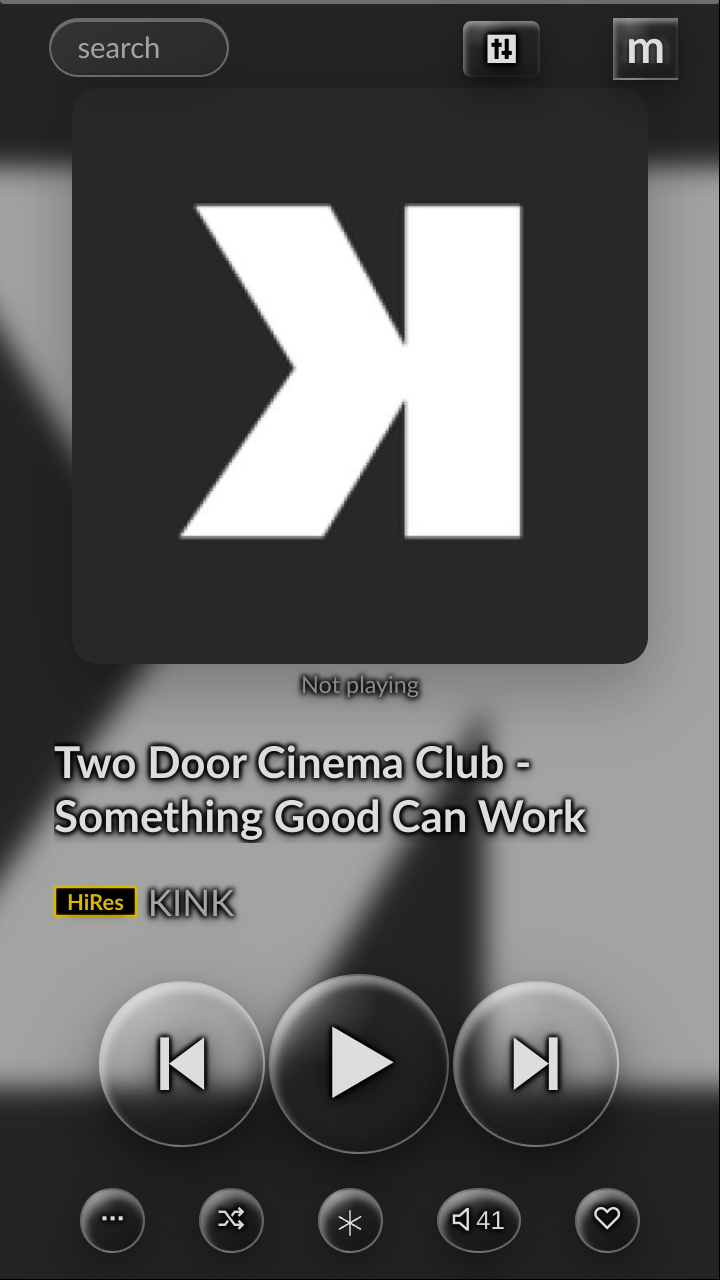
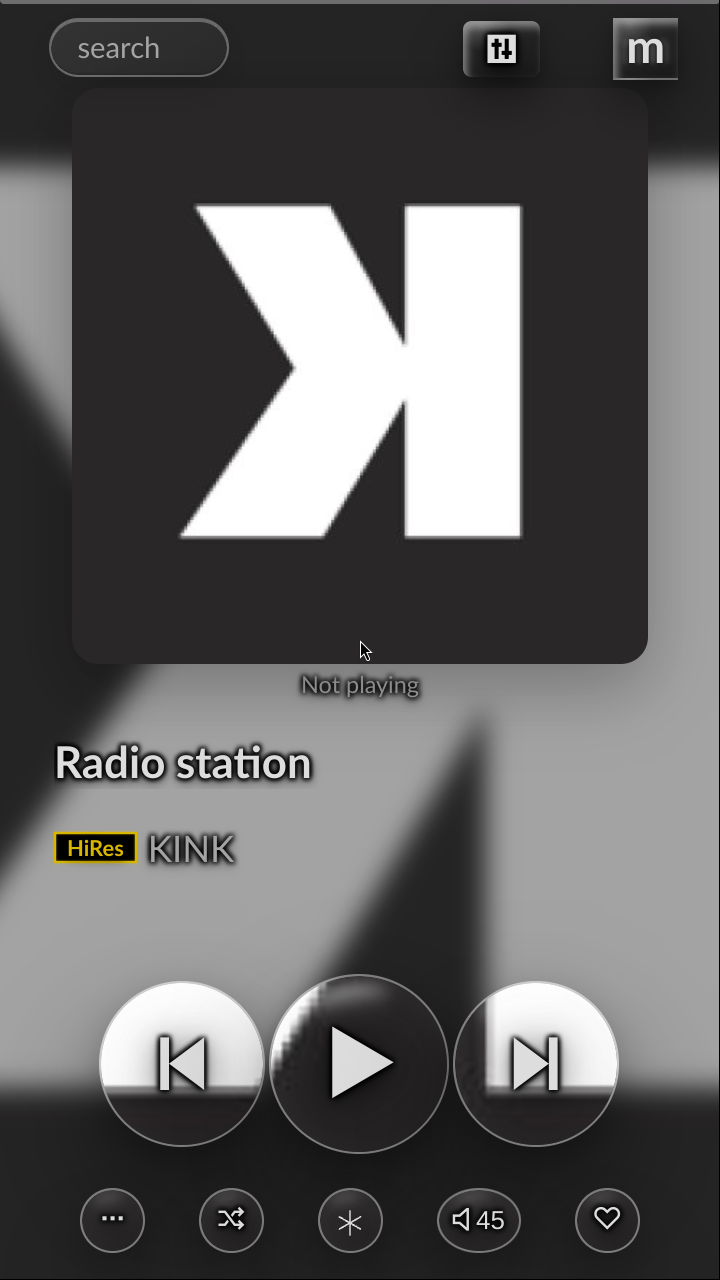
liquid glass styling update

diff --git a/LiquidGlassTheme/liquid-glass-theme.css b/LiquidGlassTheme/liquid-glass-theme.css
@@ -106,10 +106,12 @@
         radial-gradient(ellipse at 72% 94%, rgba(0,0,0,.13), transparent 56%),
         linear-gradient(145deg, rgba(255,255,255,.025), rgba(255,255,255,.008)) !important;
     border-color: rgba(255,255,255,.32) !important;
-    box-shadow: inset 1px 2px 3px rgba(255,255,255,.46),
-                inset -2px -4px 7px rgba(0,0,0,.24),
-                0 8px 20px rgba(0,0,0,.34),
-                0 2px 5px rgba(0,0,0,.16) !important;
+    box-shadow: inset 2px 3px 4px rgba(255,255,255,.46),
+                inset -3px -6px 9px rgba(0,0,0,.24),
+                0 10px 24px rgba(0,0,0,.40),
+                0 3px 7px rgba(0,0,0,.18) !important;
+    -webkit-backdrop-filter: blur(1px) saturate(155%) contrast(104%) brightness(102.5%) !important;
+    backdrop-filter: blur(1px) saturate(155%) contrast(104%) brightness(102.5%) !important;
     text-shadow:
         -1px -1px 2px rgba(0,0,0,.86),
          1px -1px 2px rgba(0,0,0,.86),
@@ -130,9 +132,10 @@
 :root.liquid-glass-theme button.btn:focus,
 :root.liquid-glass-theme .btn-group > .btn:hover {
     background:
-        radial-gradient(ellipse at 25% 9%, rgba(255,255,255,.28), transparent 36%),
-        linear-gradient(145deg, rgba(255,255,255,.10), rgba(255,255,255,.025)) !important;
-    border-color: rgba(255,255,255,.30) !important;
+        radial-gradient(ellipse at 25% 9%, rgba(255,255,255,.30), transparent 36%),
+        radial-gradient(ellipse at 72% 94%, rgba(0,0,0,.11), transparent 56%),
+        linear-gradient(145deg, rgba(255,255,255,.045), rgba(255,255,255,.012)) !important;
+    border-color: rgba(255,255,255,.42) !important;
 }
 
 :root.liquid-glass-theme input:not([type='range']) {
@@ -244,18 +247,16 @@
 
 :root.liquid-glass-theme #panel-footer #playbar-controls .btn,
 :root.liquid-glass-theme #panel-footer #playbar-toggles .btn {
-    background:
-        radial-gradient(ellipse at 25% 9%, rgba(255,255,255,.22), transparent 34%),
-        radial-gradient(ellipse at 72% 94%, rgba(0,0,0,.13), transparent 56%),
-        linear-gradient(145deg, rgba(255,255,255,.025), rgba(255,255,255,.008)) !important;
-    border: 1px solid rgba(255,255,255,.32) !important;
+    background: transparent !important;
+    border: 1px solid rgba(255,255,255,.42) !important;
     border-radius: 50% !important;
-    box-shadow: inset 1px 2px 3px rgba(255,255,255,.46),
-                inset -2px -4px 7px rgba(0,0,0,.24),
-                0 8px 20px rgba(0,0,0,.34),
-                0 2px 5px rgba(0,0,0,.16) !important;
-    -webkit-backdrop-filter: blur(1px) saturate(155%) contrast(104%) !important;
-    backdrop-filter: blur(1px) saturate(155%) contrast(104%) !important;
+    box-shadow: inset 3px 5px 7px rgba(255,255,255,.56),
+                inset -5px -9px 13px rgba(0,0,0,.34),
+                inset 0 -2px 4px rgba(255,255,255,.12),
+                0 12px 28px rgba(0,0,0,.44),
+                0 4px 9px rgba(0,0,0,.22) !important;
+    -webkit-backdrop-filter: blur(1px) saturate(155%) contrast(104%) brightness(102.5%) !important;
+    backdrop-filter: blur(1px) saturate(155%) contrast(104%) brightness(102.5%) !important;
 }
 
 /* Portrait media rules otherwise make some compact toggle buttons taller than
@@ -365,18 +366,69 @@
 
 :root.liquid-glass-theme #playbtns .btn,
 :root.liquid-glass-theme #togglebtns .btn {
-    background:
-        radial-gradient(ellipse at 25% 9%, rgba(255,255,255,.22), transparent 34%),
-        radial-gradient(ellipse at 72% 94%, rgba(0,0,0,.13), transparent 56%),
-        linear-gradient(145deg, rgba(255,255,255,.025), rgba(255,255,255,.008)) !important;
-    border: 1px solid rgba(255,255,255,.32) !important;
+    background: transparent !important;
+    border: 1px solid rgba(255,255,255,.42) !important;
     border-radius: 50% !important;
-    box-shadow: inset 2px 4px 4px rgba(255,255,255,.46),
-                inset -4px -7px 11px rgba(0,0,0,.24),
-                0 16px 36px rgba(0,0,0,.42),
-                0 4px 9px rgba(0,0,0,.18) !important;
-    -webkit-backdrop-filter: blur(1px) saturate(155%) contrast(104%) !important;
-    backdrop-filter: blur(1px) saturate(155%) contrast(104%) !important;
+    box-shadow: inset 7px 12px 16px rgba(255,255,255,.56),
+                inset -11px -20px 30px rgba(0,0,0,.34),
+                inset 0 -3px 7px rgba(255,255,255,.12),
+                0 28px 60px rgba(0,0,0,.46),
+                0 7px 17px rgba(0,0,0,.22) !important;
+    -webkit-backdrop-filter: blur(1px) saturate(155%) contrast(104%) brightness(102.5%) !important;
+    backdrop-filter: blur(1px) saturate(155%) contrast(104%) brightness(102.5%) !important;
+    overflow: hidden !important;
+    position: relative !important;
+    isolation: isolate;
+}
+
+/* Unlike moOde's intentionally blurred page backdrop, the Siri overlay
+   projects the original cover image into its lens. JavaScript supplies a
+   viewport-aligned crop so all round controls reveal one continuous, sharp
+   cover image instead of repeating a miniature cover in every button. */
+:root.liquid-glass-theme #playbtns .btn::before,
+:root.liquid-glass-theme #togglebtns .btn::before,
+:root.liquid-glass-theme #panel-footer #playbar-controls .btn::before,
+:root.liquid-glass-theme #panel-footer #playbar-toggles .btn::before {
+    content: '';
+    position: absolute;
+    z-index: 0;
+    inset: 0;
+    border-radius: inherit;
+    background-image: var(--liquid-glass-cover-image, none);
+    background-repeat: no-repeat;
+    background-size: var(--liquid-glass-cover-size, auto);
+    background-position: var(--liquid-glass-cover-position, center);
+    filter: saturate(1.13) contrast(1.055) brightness(1.025);
+    opacity: .94;
+    pointer-events: none;
+}
+
+/* Match the remote overlay's curved specular lens highlight on Playback's
+   round transport and toggle controls without touching menu/text buttons. */
+:root.liquid-glass-theme #playbtns .btn::after,
+:root.liquid-glass-theme #togglebtns .btn::after,
+:root.liquid-glass-theme #panel-footer #playbar-controls .btn::after,
+:root.liquid-glass-theme #panel-footer #playbar-toggles .btn::after {
+    content: '';
+    position: absolute;
+    z-index: 2;
+    left: 14%;
+    top: 6%;
+    width: 54%;
+    height: 18%;
+    border-radius: 50%;
+    background: linear-gradient(180deg, rgba(255,255,255,.64), rgba(255,255,255,.09) 58%, transparent);
+    filter: blur(3.5px);
+    transform: rotate(-12deg);
+    pointer-events: none;
+}
+
+:root.liquid-glass-theme #playbtns .btn > *,
+:root.liquid-glass-theme #togglebtns .btn > *,
+:root.liquid-glass-theme #panel-footer #playbar-controls .btn > *,
+:root.liquid-glass-theme #panel-footer #playbar-toggles .btn > * {
+    position: relative;
+    z-index: 3;
 }
 
 :root.liquid-glass-theme #playbtns .btn i,

diff --git a/LiquidGlassTheme/liquid-glass-theme.js b/LiquidGlassTheme/liquid-glass-theme.js
@@ -8,11 +8,92 @@
     let librarySwitch = null;
     let libraryObserver = null;
     let serverTheme = null;
+    let lensImageUrl = '';
+
+    const LENS_CONTROLS = [
+        '#playbtns .btn',
+        '#togglebtns .btn',
+        '#panel-footer #playbar-controls .btn',
+        '#panel-footer #playbar-toggles .btn',
+    ].join(',');
+
+    const COVER_IMAGES = [
+        '#cover-backdrop img.ss-backdrop',
+        '#coverart-url img',
+        '#ss-coverart-url img',
+        '#playback-cover img',
+        '#coverart img',
+        '.coverart img',
+    ];
 
     function configuredTheme() {
         if (serverTheme !== null) return serverTheme;
         if (typeof SESSION === 'undefined' || !SESSION || !SESSION.json) return '';
         return String(SESSION.json.themename || '');
+    }
+
+    function visible(element) {
+        if (!element) return false;
+        const rect = element.getBoundingClientRect();
+        const style = window.getComputedStyle(element);
+        return rect.width > 80 && rect.height > 80 &&
+            style.display !== 'none' && style.visibility !== 'hidden';
+    }
+
+    function activeCoverImage() {
+        for (const selector of COVER_IMAGES) {
+            const image = Array.from(document.querySelectorAll(selector)).find(visible);
+            if (image) return image;
+        }
+        return null;
+    }
+
+    function clearControlLenses() {
+        document.querySelectorAll(LENS_CONTROLS).forEach(function (control) {
+            control.style.removeProperty('--liquid-glass-cover-image');
+            control.style.removeProperty('--liquid-glass-cover-size');
+            control.style.removeProperty('--liquid-glass-cover-position');
+        });
+        lensImageUrl = '';
+    }
+
+    function syncControlLenses() {
+        if (!document.documentElement.classList.contains(ROOT_CLASS)) {
+            clearControlLenses();
+            return;
+        }
+        const image = activeCoverImage();
+        const imageUrl = image && (image.currentSrc || image.src);
+        if (!image || !imageUrl) {
+            clearControlLenses();
+            return;
+        }
+
+        const imageRect = image.getBoundingClientRect();
+        if (!imageRect.width || !imageRect.height) return;
+
+        // Use the transformed ss-backdrop rectangle itself. moOde scales its
+        // backdrop container and repositions the child image; reconstructing
+        // that with viewport dimensions causes a visibly different crop.
+        // Mapping this real rectangle into every control gives a pixel-exact,
+        // sharp continuation of the blurred backdrop behind it.
+        const renderedWidth = imageRect.width;
+        const renderedHeight = imageRect.height;
+        const imageLeft = imageRect.left;
+        const imageTop = imageRect.top;
+        const cssImage = `url(${JSON.stringify(imageUrl)})`;
+        const cssSize = `${renderedWidth}px ${renderedHeight}px`;
+
+        document.querySelectorAll(LENS_CONTROLS).forEach(function (control) {
+            const rect = control.getBoundingClientRect();
+            control.style.setProperty('--liquid-glass-cover-image', cssImage);
+            control.style.setProperty('--liquid-glass-cover-size', cssSize);
+            control.style.setProperty(
+                '--liquid-glass-cover-position',
+                `${imageLeft - rect.left}px ${imageTop - rect.top}px`,
+            );
+        });
+        lensImageUrl = imageUrl;
     }
 
     async function readServerTheme() {
@@ -55,8 +136,10 @@
         if (active) {
             observeLibrary();
             if (!wasActive) syncLibraryVisibility();
+            window.requestAnimationFrame(syncControlLenses);
         } else {
             document.documentElement.classList.remove(LIBRARY_CLASS);
+            if (wasActive || lensImageUrl) clearControlLenses();
         }
     }
 
@@ -76,6 +159,12 @@
     window.setInterval(syncTheme, 2000);
     window.setInterval(readServerTheme, 10000);
     document.addEventListener('visibilitychange', function () {
-        if (!document.hidden) readServerTheme();
+        if (!document.hidden) {
+            readServerTheme();
+            window.requestAnimationFrame(syncControlLenses);
+        }
+    });
+    window.addEventListener('resize', function () {
+        window.requestAnimationFrame(syncControlLenses);
     });
 }());

diff --git a/LiquidGlassTheme/patch_header.py b/LiquidGlassTheme/patch_header.py
@@ -10,8 +10,8 @@ from pathlib import Path
 
 BEGIN = "<!-- BEGIN LIQUID GLASS THEME -->"
 END = "<!-- END LIQUID GLASS THEME -->"
-STYLESHEET = '<link rel="stylesheet" href="css/liquid-glass-theme.css?v=14">'
-SCRIPT = '<script src="js/liquid-glass-theme.js?v=14" defer></script>'
+STYLESHEET = '<link rel="stylesheet" href="css/liquid-glass-theme.css?v=20">'
+SCRIPT = '<script src="js/liquid-glass-theme.js?v=20" defer></script>'
 PREVIOUS_BODIES = [
     [
         '<link rel="stylesheet" href="css/liquid-glass-theme.css">',
@@ -64,6 +64,30 @@ PREVIOUS_BODIES = [
     [
         '<link rel="stylesheet" href="css/liquid-glass-theme.css?v=13">',
         '<script src="js/liquid-glass-theme.js?v=13" defer></script>',
+    ],
+    [
+        '<link rel="stylesheet" href="css/liquid-glass-theme.css?v=14">',
+        '<script src="js/liquid-glass-theme.js?v=14" defer></script>',
+    ],
+    [
+        '<link rel="stylesheet" href="css/liquid-glass-theme.css?v=15">',
+        '<script src="js/liquid-glass-theme.js?v=15" defer></script>',
+    ],
+    [
+        '<link rel="stylesheet" href="css/liquid-glass-theme.css?v=16">',
+        '<script src="js/liquid-glass-theme.js?v=16" defer></script>',
+    ],
+    [
+        '<link rel="stylesheet" href="css/liquid-glass-theme.css?v=17">',
+        '<script src="js/liquid-glass-theme.js?v=17" defer></script>',
+    ],
+    [
+        '<link rel="stylesheet" href="css/liquid-glass-theme.css?v=18">',
+        '<script src="js/liquid-glass-theme.js?v=18" defer></script>',
+    ],
+    [
+        '<link rel="stylesheet" href="css/liquid-glass-theme.css?v=19">',
+        '<script src="js/liquid-glass-theme.js?v=19" defer></script>',
     ],
 ]
 SOURCE_ANCHOR = re.compile(r'^\s*<script src="js/scripts-panels\.js(?:\?[^\"]*)?" defer></script>\s*$')

diff --git a/LiquidGlassTheme/readme.md b/LiquidGlassTheme/readme.md
@@ -12,7 +12,12 @@ remain legible over light and detailed cover artwork. Footer controls
 and fullscreen compact toggle controls use explicit square boxes. The desktop
 Previous/Play/Next controls also use fixed square boxes, preventing circular
 buttons from becoming vertically oval on wider phone, tablet, and computer
-layouts. Wide-screen footer controls are vertically centered and kept within
+layouts. On Playback, these controls act as true glass lenses: they show a
+sharp, pixel-aligned continuation of moOde's cover backdrop while the page
+behind them remains blurred. Stronger asymmetric refraction, rim lighting, and
+depth shadows give both the transport and compact controls a convex appearance
+without placing an opaque tint over the artwork. Wide-screen footer controls
+are vertically centered and kept within
 the footer instead of touching or crossing the viewport edge. The compact
 fullscreen toggle row uses smaller true circles on landscape displays so it
 also remains fully visible when browser chrome reduces the viewport height.
